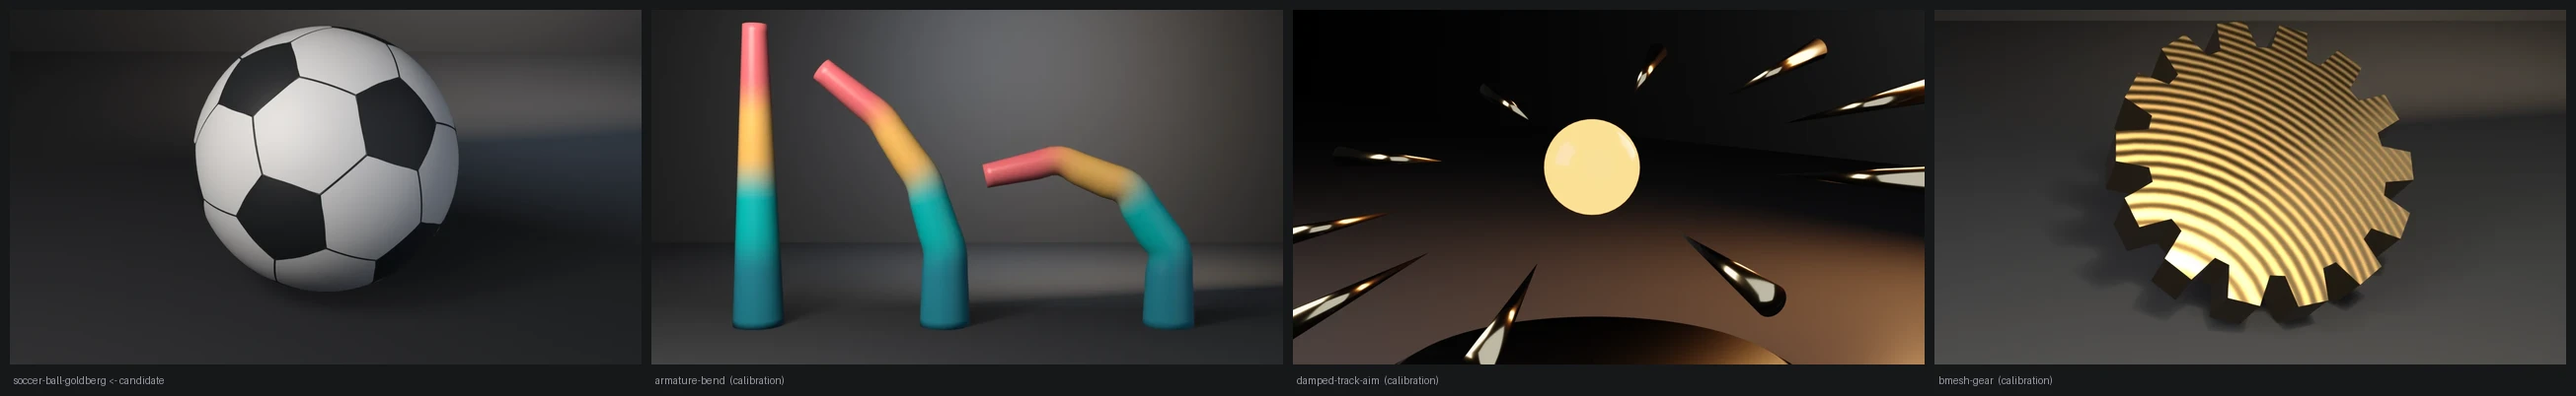
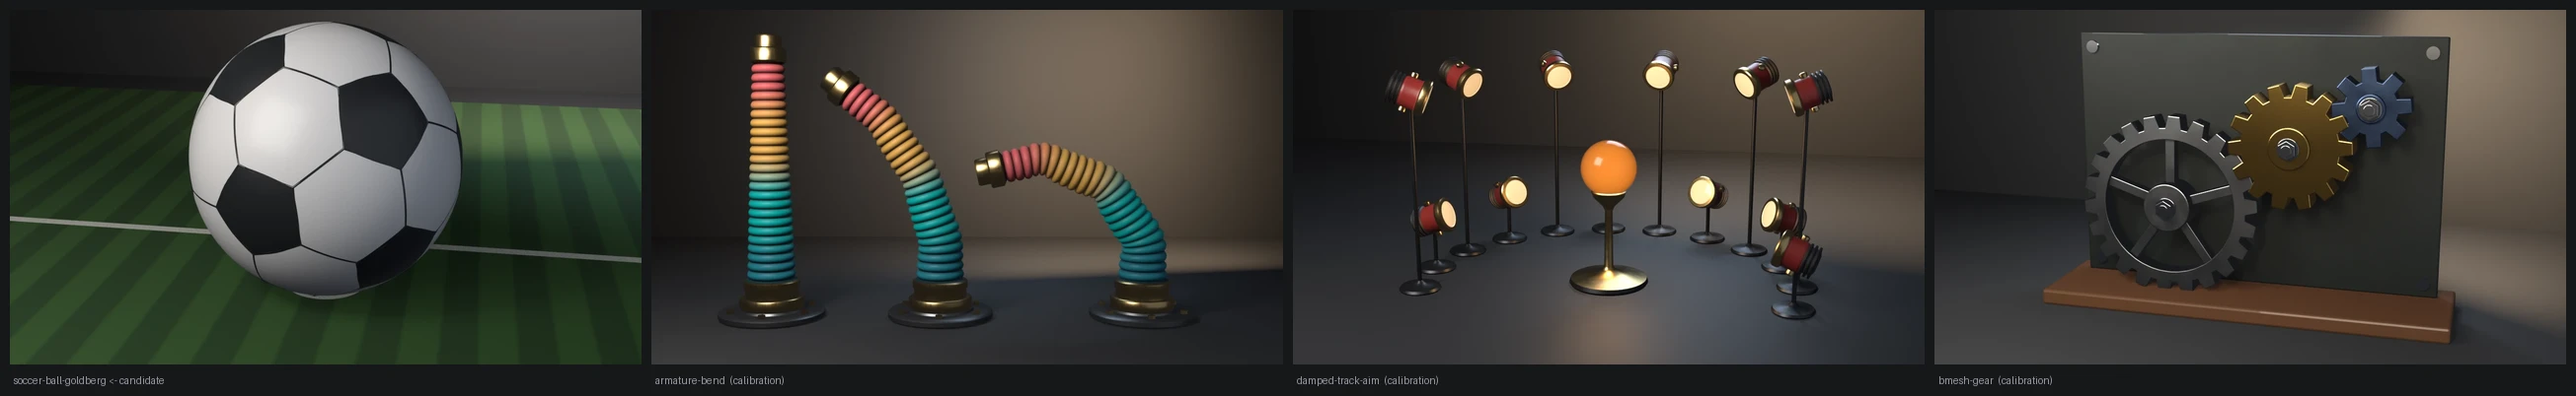
fix(examples): redesign soccer-ball-goldberg as a match ball on pitch turf
The hero was a bare ball in a void. It now sits pressed 1 cm into a patch of
mown turf, on a chalked penalty spot with a touchline behind it.

- Turf (render-only): alternating mowing stripes, blade noise in colour and
  bump, and chalk broken up by the same noise. Everything reads Object
  coordinates, so the spot centres under the ball.
- Leather: both panel materials gain a fine Voronoi pebble-grain bump and a
  thin clear coat.
- Camera: now aims through a TRACK_TO empty.
- The README records the turf floor as a stage deviation. The checked mesh,
  the panel binding and every check are unchanged.

Evidence (live runs, local):
- .scratch/blender-5.2.1-windows-x64/blender.exe (Blender 5.2.1 LTS):
  - check-only exits 0: V=60 E=90 F=32, census 12x5+20x6, degree 3,
    watertight; edge max_dev 6.471e-06, planarity 1.888e-06, circumradius
    max_dev 8.956e-06.
  - --invert-bind exits 13: "32 face(s) carry the wrong panel material".
- .scratch/blender-4.5.11-windows-x64/blender.exe (Blender 4.5.11 LTS):
  --output renders with framing_ok.
- Framing: fill x=0.434, y=0.772. Margins: left 0.284, right 0.281,
  bottom 0.194, top 0.033.
- Contact sheet (docs/gallery/contact-sheets/soccer-ball-goldberg-contact-sheet.webp):

  | tile                   | luma  | stage | warmth | sat   |
  |------------------------|-------|-------|--------|-------|
  | candidate              | 0.267 | 0.217 | -0.011 | 0.250 |
  | armature-bend          | 0.243 | 0.192 | -0.144 | 0.237 |
[…]

diff --git a/examples/soccer-ball-goldberg/soccer_ball_goldberg.py b/examples/soccer-ball-goldberg/soccer_ball_goldberg.py
@@ -17,6 +17,7 @@ check. Pass --output to also render a still:
     blender --background --python soccer_ball_goldberg.py -- --output b.png  # + render
 """
 import bpy, bmesh, sys, os, math, argparse
+from mathutils import Vector
 
 # Shared Layer 1 framing measurement (render path only) — see gallery_framing.py
 sys.path.insert(0, os.path.join(os.path.dirname(os.path.abspath(__file__)), os.pardir))
@@ -40,6 +41,12 @@ TOL_CENTER = 1.0e-6         # centroid at origin
 SEAM_WIDTH = 0.018          # render only: stitched seam width on the ball
 SEAM_LIFT = 0.002           # render only: seam sits this far proud of the ball
 FRAMING_EXIT = 14           # render only: gallery_framing returns 10, taken here
+TURF_SIZE = (16.0, 14.0)    # render only: pitch turf footprint (x, y)
+TURF_H = 0.22               # render only: sod sample thickness
+TURF_STRIPE = 0.6           # render only: mowing stripe width
+CHALK_SPOT_R = 0.42         # render only: penalty spot radius under the ball
+CHALK_LINE_Y = 0.95         # render only: touchline behind the ball
+CHALK_LINE_W = 0.12
 
 # closed forms for a truncated icosahedron (Goldberg polyhedron GP(1,1))
 EXPECT_V, EXPECT_E, EXPECT_F = 60, 90, 32
@@ -282,17 +289,146 @@ def eevee_engine_id():
     return 'BLENDER_EEVEE' if bpy.app.version >= (5, 0, 0) else 'BLENDER_EEVEE_NEXT'
 
 
+def _leather(mat, base, rough):
+    """Synthetic match leather: a fine pebble grain in the bump and a thin
+    clear coat, so each panel carries a soft sheen instead of flat paint."""
+    mat.use_nodes = True
+    nt = mat.node_tree
+    b = nt.nodes["Principled BSDF"]
+    b.inputs["Base Color"].default_value = (*base, 1.0)
+    b.inputs["Roughness"].default_value = rough
+    b.inputs["Coat Weight"].default_value = 0.35
+    b.inputs["Coat Roughness"].default_value = 0.25
+    grain = nt.nodes.new("ShaderNodeTexVoronoi")
+    grain.inputs["Scale"].default_value = 160.0
+    bump = nt.nodes.new("ShaderNodeBump")
+    bump.inputs["Strength"].default_value = 0.12
+    bump.inputs["Distance"].default_value = 0.002
+    nt.links.new(grain.outputs["Distance"], bump.inputs["Height"])
+    nt.links.new(bump.outputs["Normal"], b.inputs["Normal"])
+
+
 def _panel_materials(obj):
     """Leather finishes for the two panel classes (render path only)."""
     white, black = obj.data.materials
-    white.use_nodes = True
-    wb = white.node_tree.nodes["Principled BSDF"]
-    wb.inputs["Base Color"].default_value = (0.82, 0.82, 0.84, 1.0)
-    wb.inputs["Roughness"].default_value = 0.52
-    black.use_nodes = True
-    bb = black.node_tree.nodes["Principled BSDF"]
-    bb.inputs["Base Color"].default_value = (0.018, 0.02, 0.024, 1.0)
-    bb.inputs["Roughness"].default_value = 0.48
+    _leather(white, (0.80, 0.80, 0.82), 0.48)
+    _leather(black, (0.016, 0.018, 0.022), 0.42)
+
+
+def _turf_patch(scene):
+    """Render-only staging: a patch of mown pitch turf — striped grass on
+    top, a soil edge on its (off-frame) sides — with a chalked penalty spot
+    under the ball and a touchline running behind it."""
+    me = bpy.data.meshes.new("Turf")
+    bm = bmesh.new()
+    try:
+        res = bmesh.ops.create_cube(bm, size=1.0)
+        for v in res["verts"]:
+            v.co.x *= TURF_SIZE[0]
+            v.co.y *= TURF_SIZE[1]
+            v.co.z = (v.co.z + 0.5) * TURF_H
+        bmesh.ops.bevel(bm, geom=[e for e in bm.edges], offset=0.06, segments=3,
+                        profile=0.5, affect='EDGES', clamp_overlap=True)
+        for f in bm.faces:
+            f.material_index = 0 if f.normal.z > 0.7 else 1
+            f.smooth = True
+        bm.to_mesh(me)
+    finally:
+        bm.free()
+
+    grass = bpy.data.materials.new("MownGrass")
+    grass.use_nodes = True
+    nt = grass.node_tree
+    g = nt.nodes["Principled BSDF"]
+    g.inputs["Roughness"].default_value = 0.85
+    coord = nt.nodes.new("ShaderNodeTexCoord").outputs["Object"]
+    # mowing stripes: alternating light/dark bands where the mower laid the
+    # blades in opposite directions
+    stripes = nt.nodes.new("ShaderNodeTexWave")
+    stripes.wave_type = 'BANDS'
+    stripes.bands_direction = 'X'
+    stripes.wave_profile = 'SIN'
+    stripes.inputs["Scale"].default_value = 2.0 * math.pi / (20.0 * TURF_STRIPE)
+    nt.links.new(coord, stripes.inputs["Vector"])
+    sharpen = nt.nodes.new("ShaderNodeMapRange")
+    sharpen.inputs["From Min"].default_value = 0.4
+    sharpen.inputs["From Max"].default_value = 0.6
+    nt.links.new(stripes.outputs["Fac"], sharpen.inputs["Value"])
+    blades = nt.nodes.new("ShaderNodeTexNoise")
+    blades.inputs["Scale"].default_value = 90.0
+    blades.inputs["Detail"].default_value = 10.0
+    nt.links.new(coord, blades.inputs["Vector"])
+    band = nt.nodes.new("ShaderNodeMix")
+    band.data_type = 'RGBA'
+    band.inputs[6].default_value = (0.016, 0.060, 0.013, 1.0)
+    band.inputs[7].default_value = (0.032, 0.105, 0.021, 1.0)
+    nt.links.new(sharpen.outputs["Result"], band.inputs[0])
+    tuft = nt.nodes.new("ShaderNodeMix")
+    tuft.data_type = 'RGBA'
+    tuft.blend_type = 'MULTIPLY'
+    tuft.inputs[0].default_value = 0.55
+    nt.links.new(band.outputs[2], tuft.inputs[6])
+    ramp = nt.nodes.new("ShaderNodeValToRGB")
+    ramp.color_ramp.elements[0].color = (0.45, 0.45, 0.4, 1.0)
+    ramp.color_ramp.elements[1].color = (1.25, 1.25, 1.1, 1.0)
+    nt.links.new(blades.outputs["Fac"], ramp.inputs["Fac"])
+    nt.links.new(ramp.outputs["Color"], tuft.inputs[7])
+    # chalk: a penalty spot under the ball and a touchline behind it
+    spot = nt.nodes.new("ShaderNodeVectorMath")
+    spot.operation = 'LENGTH'
+    nt.links.new(coord, spot.inputs[0])
+    in_spot = nt.nodes.new("ShaderNodeMath")
+    in_spot.operation = 'LESS_THAN'
+    in_spot.inputs[1].default_value = CHALK_SPOT_R
+    nt.links.new(spot.outputs["Value"], in_spot.inputs[0])
+    sep = nt.nodes.new("ShaderNodeSeparateXYZ")
+    nt.links.new(coord, sep.inputs["Vector"])
+    off = nt.nodes.new("ShaderNodeMath")
+    off.operation = 'SUBTRACT'
+    off.inputs[1].default_value = CHALK_LINE_Y
+    nt.links.new(sep.outputs["Y"], off.inputs[0])
+    dist = nt.nodes.new("ShaderNodeMath")
+    dist.operation = 'ABSOLUTE'
+    nt.links.new(off.outputs["Value"], dist.inputs[0])
+    in_line = nt.nodes.new("ShaderNodeMath")
+    in_line.operation = 'LESS_THAN'
+    in_line.inputs[1].default_value = CHALK_LINE_W / 2
+    nt.links.new(dist.outputs["Value"], in_line.inputs[0])
+    chalk = nt.nodes.new("ShaderNodeMath")
+    chalk.operation = 'MAXIMUM'
+    nt.links.new(in_spot.outputs["Value"], chalk.inputs[0])
+    nt.links.new(in_line.outputs["Value"], chalk.inputs[1])
+    # chalk sits in the grass: the blade noise breaks its edge up a little
+    patchy = nt.nodes.new("ShaderNodeMath")
+    patchy.operation = 'MULTIPLY'
+    nt.links.new(chalk.outputs["Value"], patchy.inputs[0])
+    nt.links.new(blades.outputs["Fac"], patchy.inputs[1])
+    chalk_fac = nt.nodes.new("ShaderNodeMapRange")
+    chalk_fac.inputs["From Min"].default_value = 0.2
+    chalk_fac.inputs["From Max"].default_value = 0.45
+    nt.links.new(patchy.outputs["Value"], chalk_fac.inputs["Value"])
+    lined = nt.nodes.new("ShaderNodeMix")
+    lined.data_type = 'RGBA'
+    lined.inputs[7].default_value = (0.62, 0.64, 0.60, 1.0)
+    nt.links.new(chalk_fac.outputs["Result"], lined.inputs[0])
+    nt.links.new(tuft.outputs[2], lined.inputs[6])
+    nt.links.new(lined.outputs[2], g.inputs["Base Color"])
+    bump = nt.nodes.new("ShaderNodeBump")
+    bump.inputs["Strength"].default_value = 0.5
+    bump.inputs["Distance"].default_value = 0.01
+    nt.links.new(blades.outputs["Fac"], bump.inputs["Height"])
+    nt.links.new(bump.outputs["Normal"], g.inputs["Normal"])
+
+    soil = bpy.data.materials.new("Soil")
+    soil.use_nodes = True
+    s = soil.node_tree.nodes["Principled BSDF"]
+    s.inputs["Base Color"].default_value = (0.055, 0.035, 0.02, 1.0)
+    s.inputs["Roughness"].default_value = 0.95
+    me.materials.append(grass)
+    me.materials.append(soil)
+    turf = bpy.data.objects.new("Turf", me)
+    scene.collection.objects.link(turf)
+    return turf
 
 
 def render_still(obj, path, engine):
@@ -359,7 +495,9 @@ def render_still(obj, path, engine):
         min_z = min((ev.matrix_world @ v.co).z for v in ev_me.vertices)
     finally:
         ev.to_mesh_clear()  # no argument: clears this object's evaluated mesh
-    obj.location.z -= min_z - 0.002  # 2 mm contact: grounded, not intersecting
+    # seated on the turf: the ball presses 1 cm into the grass it rests on
+    obj.location.z -= min_z - TURF_H + 0.01
+    turf = _turf_patch(scene)
 
     floor_me = bpy.data.meshes.new("Floor")
     bm = bmesh.new()
@@ -404,9 +542,16 @@ def render_still(obj, path, engine):
     cam_data = bpy.data.cameras.new("Cam")
     cam_data.lens = 50.0
     cam = bpy.data.objects.new("Cam", cam_data)
-    cam.location = (0.0, -7.2, 3.8)
-    cam.rotation_euler = (math.radians(68), 0.0, 0.0)
+    cam.location = (1.2, -7.0, 3.6)
     scene.collection.objects.link(cam)
+    # aimed a little below the ball's centre so the turf and its chalk read
+    aim = bpy.data.objects.new("Aim", None)
+    aim.location = obj.location - Vector((0.0, 0.0, 0.25))
+    scene.collection.objects.link(aim)
+    track = cam.constraints.new('TRACK_TO')
+    track.target = aim
+    track.track_axis = 'TRACK_NEGATIVE_Z'
+    track.up_axis = 'UP_Y'
     scene.camera = cam
 
     scene.render.engine = 'CYCLES' if engine == 'cycles' else eevee_engine_id()
@@ -425,7 +570,7 @@ def render_still(obj, path, engine):
     # (docs/VISUAL-STYLE.md); Standard is the house transform
     scene.view_settings.view_transform = 'Standard'
     if gallery_framing.check_framing(scene, cam, hero=[obj], elements=[obj],
-                                     stage=[floor, wall]):
+                                     stage=[floor, wall, turf]):
         return FRAMING_EXIT
     bpy.ops.render.render(write_still=True)
     if not (os.path.exists(path) and os.path.getsize(path) > 0):

diff --git a/examples/soccer-ball-goldberg/README.md b/examples/soccer-ball-goldberg/README.md
@@ -74,12 +74,26 @@ None of this touches the checked mesh, its binding, or any check.
   render-only copy of the mesh, turned into a wire, subdivided and cast onto a
   sphere 2 mm proud of the ball, draws every panel boundary as a stitched seam.
   It is parented to the ball and bound to the dark slot on the copy only.
+- **Match leather.** Both panel materials carry a fine Voronoi pebble grain
+  in the bump and a thin clear coat, so each panel holds a soft sheen.
+- **On the pitch.** The ball sits pressed 1 cm into a patch of mown turf:
+  alternating mowing stripes, blade noise in colour and bump, and chalk
+  (a penalty spot under the ball, a touchline behind it) broken up by the
+  same blade noise. The chalk and stripes read Object coordinates on the
+  turf, so the spot centres under the ball's origin.
 - **Framing gate.** The render path calls
   [`gallery_framing.check_framing`](../gallery_framing.py) before writing the
   still. The helper returns 10, which this example already spends on the
   centroid check, so the call site maps a violation to **14**. The larger,
   rounder ball touched the top edge at the old 55 mm lens; the lens is now
-  50 mm.
+  50 mm, and a `TRACK_TO` aim sits 0.25 below the ball's centre.
+
+### Stage deviation
+
+The floor is dark mown turf rather than the near-black studio floor: a ball
+alone on a black stage read as an object in a void, and the pitch is the
+context that makes it a match ball. The back wall and warm wedge are the
+default stage; measured stage luminance 0.217 sits inside the calibration set.
 
 ## Run
 

diff --git a/README.md b/README.md
@@ -1059,7 +1059,7 @@ teleported flange) vs MPI KEEP.
 </tr>
 <tr>
 <td width="46%" valign="middle">
-<a href="examples/soccer-ball-goldberg/"><img src="examples/soccer-ball-goldberg/preview.webp" alt="Soccer ball Goldberg: a round white soccer ball with black pentagon panels and dark stitched seams around every hexagon on a dark studio floor — a bmesh icosphere truncated at one-third per edge into the Goldberg polyhedron, proving closed-form counts, uniform degree, equal edges, planar faces, one circumsphere, and panels bound by face vertex count" /></a>
+<a href="examples/soccer-ball-goldberg/"><img src="examples/soccer-ball-goldberg/preview.webp" alt="Soccer ball Goldberg: a round white soccer ball with black pentagon panels and dark stitched seams around every hexagon, resting on mown pitch turf beside a chalked touchline — a bmesh icosphere truncated at one-third per edge into the Goldberg polyhedron, proving closed-form counts, uniform degree, equal edges, planar faces, one circumsphere, and panels bound by face vertex count" /></a>
 </td>
 <td valign="middle">
 
